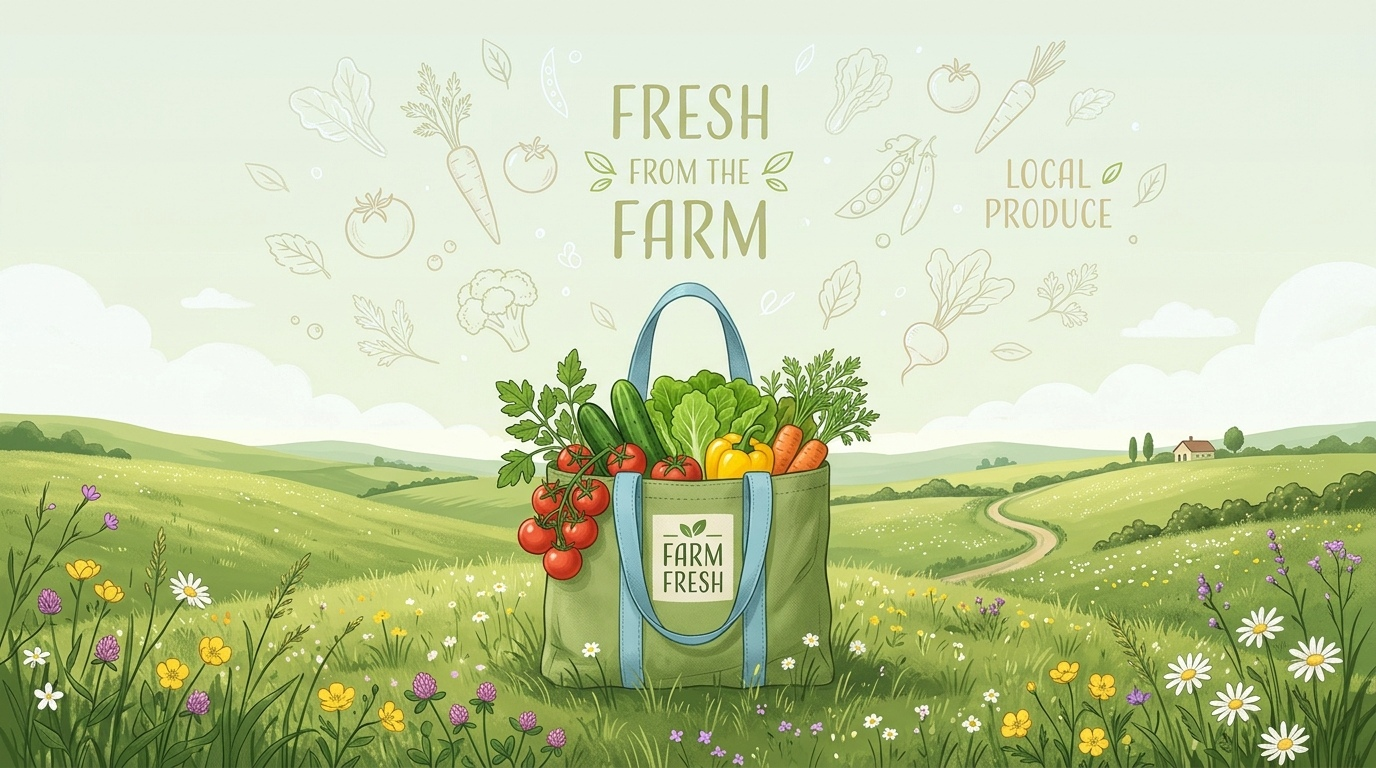
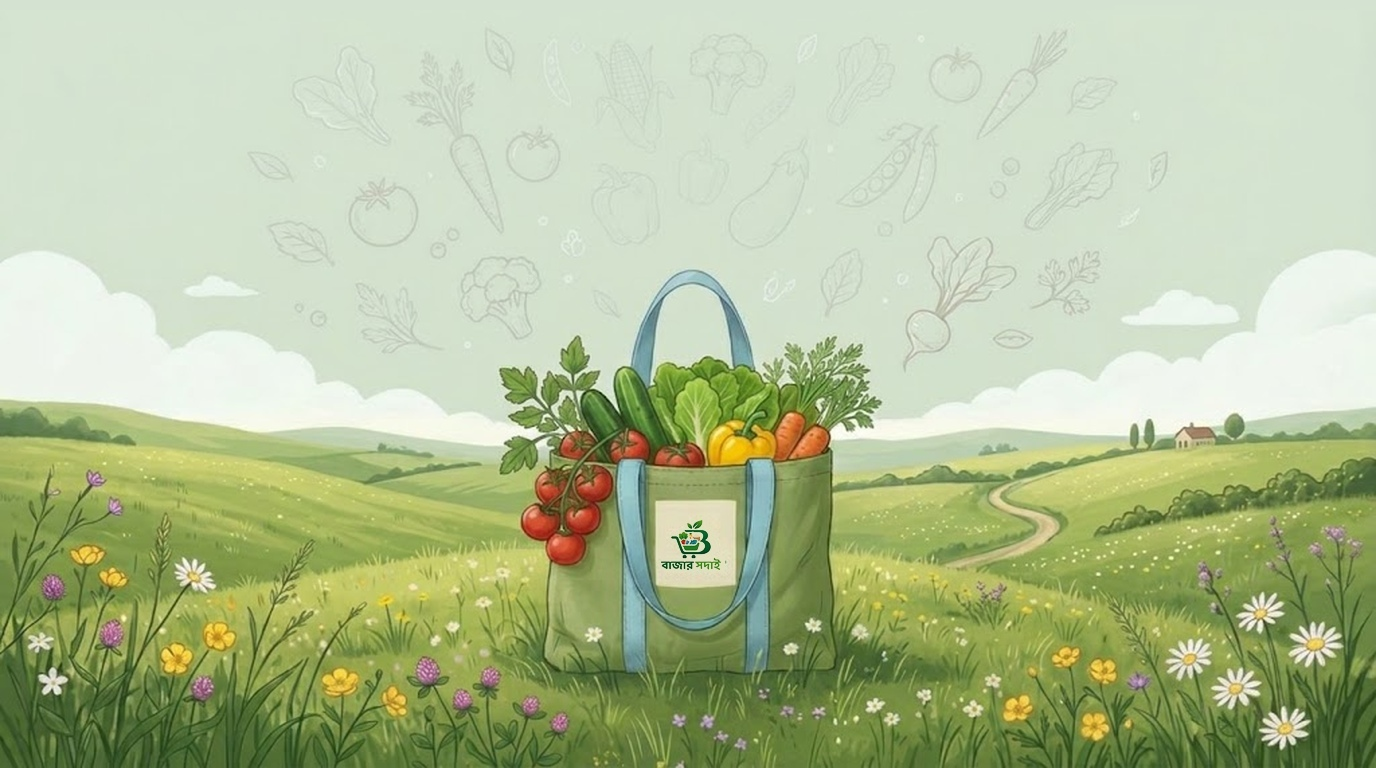
feat: add FarmFreshShowcase component and meadow background asset

diff --git a/frontend/components/layout/FarmFreshShowcase.tsx b/frontend/components/layout/FarmFreshShowcase.tsx
@@ -84,7 +84,7 @@ export default function FarmFreshShowcase() {
   return (
     <section
       aria-label="Farm Fresh Showcase"
-      className="relative w-full overflow-hidden select-none border-none bg-secondary"
+      className="relative w-full overflow-hidden select-none border-none bg-[#d4e3d1]"
     >
       {/* ── Main Meadow Banner Container ────────────────────────── */}
       <div className="relative w-full aspect-[16/10] sm:aspect-[16/8.5] md:min-h-[520px] lg:min-h-[600px] flex items-center justify-center">
@@ -92,15 +92,15 @@ export default function FarmFreshShowcase() {
         <div className="absolute inset-0 z-0">
           <Image
             src="/images/footer/farm_fresh_meadow.jpg"
-            alt="Farm fresh vegetables background"
+            alt="Bazar Shodai farm fresh vegetables showcase"
             fill
             priority
             sizes="100vw"
             className="object-cover object-[50%_15%] sm:object-[center_top]"
           />
 
-          {/* Super smooth color gradient at the top: matches the preceding section (bg-secondary) with zero visible seam */}
-          <div className="absolute inset-x-0 top-0 h-20 sm:h-32 bg-gradient-to-b from-secondary via-secondary/60 to-transparent dark:from-secondary dark:via-secondary/80 pointer-events-none z-10" />
+          {/* Super smooth color gradient at the top: matches the preceding section (bg-[#d4e3d1]) with zero visible seam */}
+          <div className="absolute inset-x-0 top-0 h-20 sm:h-32 bg-gradient-to-b from-[#d4e3d1] via-[#d4e3d1]/60 to-transparent dark:from-secondary dark:via-secondary/80 pointer-events-none z-10" />
 
           {/* Bottom organic green ground plane that seamlessly merges into the attached footer */}
           <div className="absolute inset-x-0 bottom-0 h-36 sm:h-48 md:h-56 bg-gradient-to-b from-transparent via-[#0b6234]/80 to-[#0b6234] dark:to-[#0a2e18] pointer-events-none z-10" />

diff --git a/frontend/components/home/BestSellingProducts.tsx b/frontend/components/home/BestSellingProducts.tsx
@@ -12,7 +12,7 @@ interface BestSellingProductsProps {
 export default function BestSellingProducts({ products }: BestSellingProductsProps) {
   const t = useTranslations("Home");
   return (
-    <section className="overflow-x-clip bg-secondary pb-6 pt-[60px] sm:pb-8 sm:pt-[58px] md:pb-10 md:pt-[71px]" aria-labelledby="best-selling-heading">
+    <section className="overflow-x-clip bg-[#d4e3d1] pb-6 pt-[60px] sm:pb-8 sm:pt-[58px] md:pb-10 md:pt-[71px]" aria-labelledby="best-selling-heading">
       <RevealGroup className="relative mx-auto max-w-[1440px] px-4 md:px-8">
         <span data-drift="1.4" className="pointer-events-none absolute right-0 top-2 hidden h-5 w-5 bg-brand-fresh/60 md:block" aria-hidden="true" />
         <span data-drift="0.7" className="pointer-events-none absolute right-16 top-20 hidden h-3 w-3 bg-primary/30 md:block" aria-hidden="true" />
